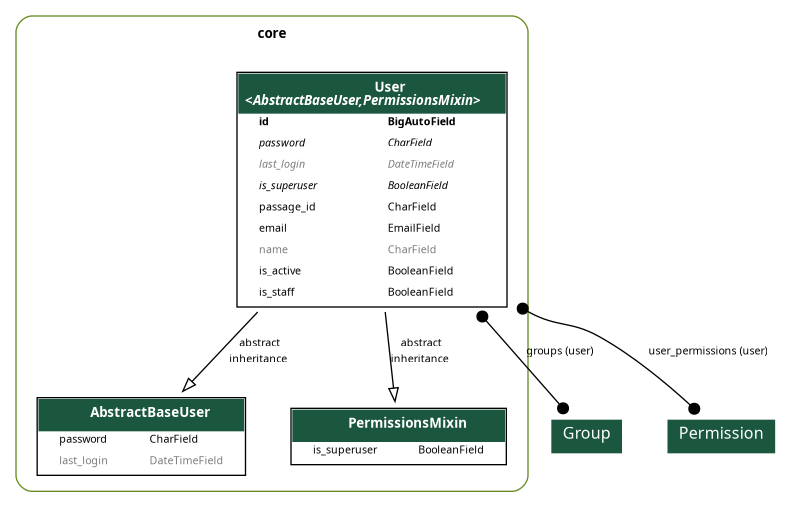
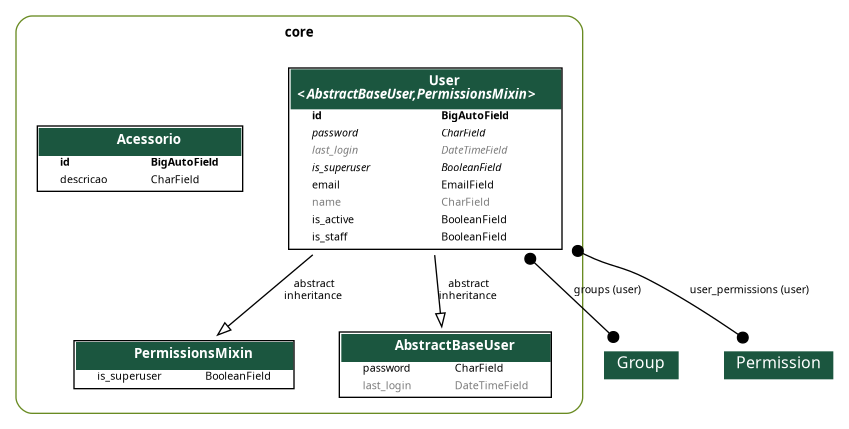
feat: criação da API Acessorio

Changed region(s): [[0.0, 0.0303, 1.0, 0.9697]]

diff --git a/core/migrations/0006_acessorio.py b/core/migrations/0006_acessorio.py
@@ -1,0 +1,20 @@
+# Generated by Django 5.2.12 on 2026-03-24 11:44
+
+from django.db import migrations, models
+
+
+class Migration(migrations.Migration):
+
+    dependencies = [
+        ('core', '0005_remove_user_passage_id'),
+    ]
+
+    operations = [
+        migrations.CreateModel(
+            name='Acessorio',
+            fields=[
+                ('id', models.BigAutoField(auto_created=True, primary_key=True, serialize=False, verbose_name='ID')),
+                ('descricao', models.CharField(max_length=100)),
+            ],
+        ),
+    ]

diff --git a/core/serializers/acessorio.py b/core/serializers/acessorio.py
@@ -1,0 +1,9 @@
+from rest_framework.serializers import ModelSerializer
+
+from core.models import Acessorio
+
+
+class AcessorioSerializer(ModelSerializer):
+    class Meta:
+        model = Acessorio
+        fields = '__all__'

diff --git a/core/views/acessorio.py b/core/views/acessorio.py
@@ -1,0 +1,9 @@
+from rest_framework.viewsets import ModelViewSet
+
+from core.models import Acessorio
+from core.serializers import AcessorioSerializer
+
+
+class AcessorioViewSet(ModelViewSet):
+    queryset = Acessorio.objects.all()
+    serializer_class = AcessorioSerializer

diff --git a/core/models/acessorio.py b/core/models/acessorio.py
@@ -1,0 +1,8 @@
+from django.db import models
+
+
+class Acessorio(models.Model):
+    descricao = models.CharField(max_length=100)
+
+    def __str__(self):
+        return f'({self.id}) {self.descricao}'

diff --git a/app/urls.py b/app/urls.py
@@ -12,11 +12,12 @@ from rest_framework_simplejwt.views import (
     TokenVerifyView,
 )
 
-from core.views import UserRegistrationView, UserViewSet
+from core.views import AcessorioViewSet, UserRegistrationView, UserViewSet
 
 router = DefaultRouter()
 
 router.register(r'usuarios', UserViewSet, basename='usuarios')
+router.register(r'acessorios', AcessorioViewSet, basename='acessorios')
 
 urlpatterns = [
     path('admin/', admin.site.urls),

diff --git a/core/admin.py b/core/admin.py
@@ -52,3 +52,4 @@ class UserAdmin(BaseUserAdmin):
 
 
 admin.site.register(models.User, UserAdmin)
+admin.site.register(models.Acessorio)

diff --git a/core/models/__init__.py b/core/models/__init__.py
@@ -1,1 +1,2 @@
 from .user import User
+from .acessorio import Acessorio

diff --git a/core/serializers/__init__.py b/core/serializers/__init__.py
@@ -1,1 +1,2 @@
 from .user import UserRegistrationSerializer, UserSerializer
+from .acessorio import AcessorioSerializer

diff --git a/core/views/__init__.py b/core/views/__init__.py
@@ -1,1 +1,2 @@
 from .user import UserRegistrationView, UserViewSet
+from .acessorio import AcessorioViewSet